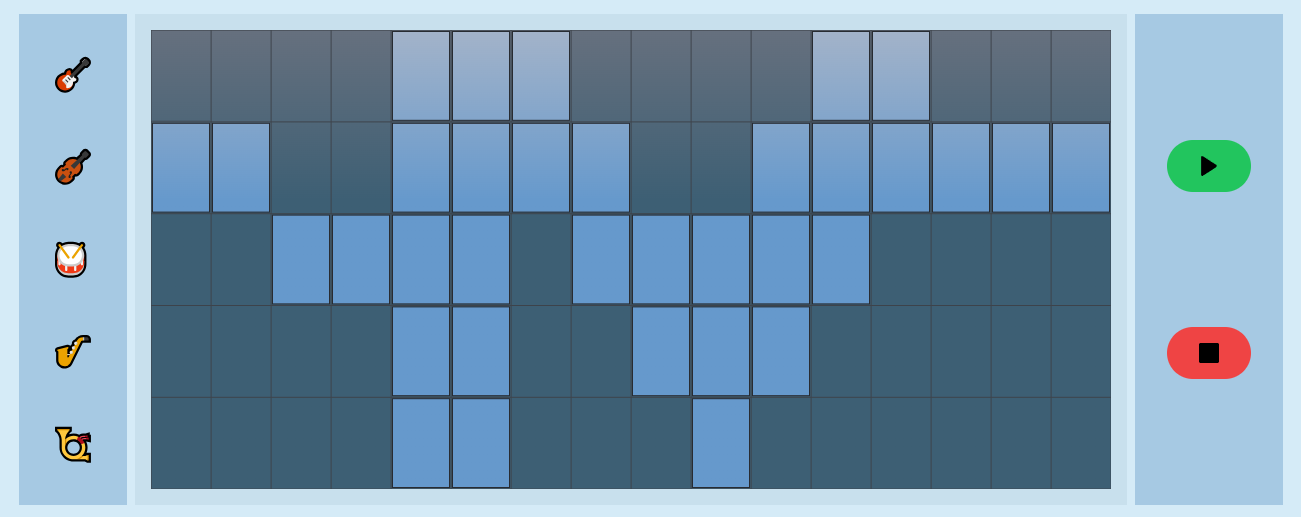
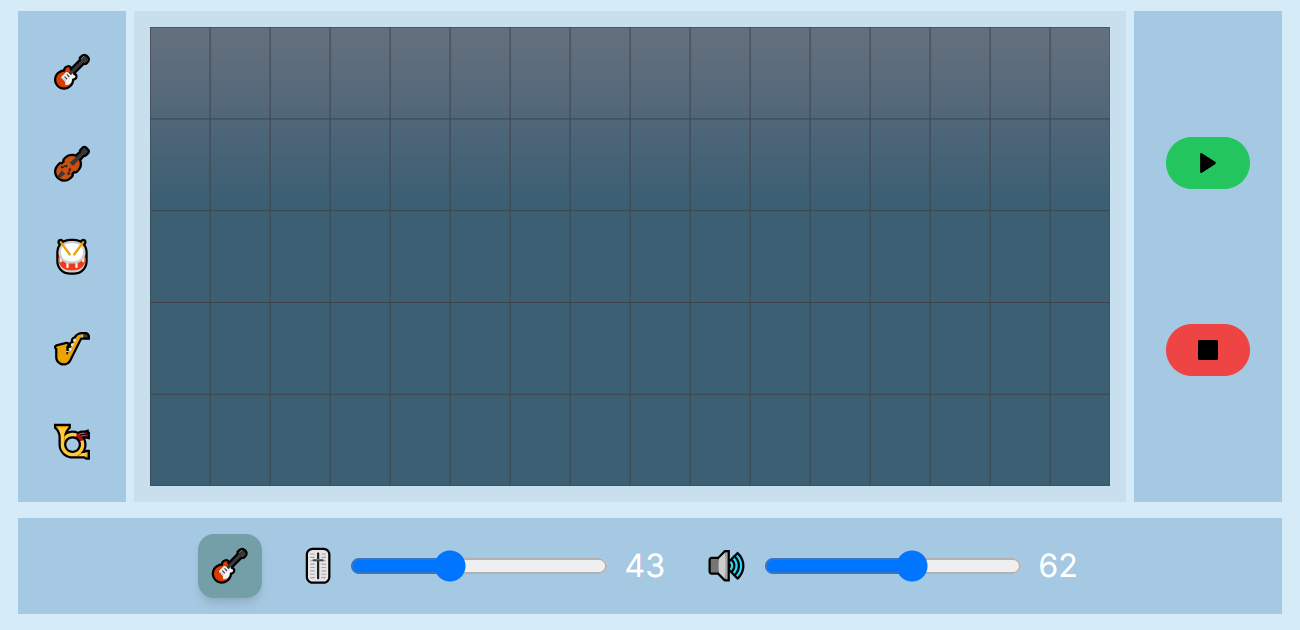
UI Changes

diff --git a/components/Mixer.js b/components/Mixer.js
@@ -2,6 +2,8 @@
 
 import React, { useState } from 'react';
 
+import Image from 'next/image';
+
 const Mixer = ({ onUpdatePitch, onUpdateVolume, active, mix }) => {
   const [pitch, setPitch] = useState(mix[active][0]);
   const [volume, setVolume] = useState(mix[active][1]);
@@ -23,11 +25,12 @@ const Mixer = ({ onUpdatePitch, onUpdateVolume, active, mix }) => {
 
   return (
     <div className="flex-grow p-2 m-1 flex items-center justify-center bg-softSkyBlue">
-      <p className="text-center mr-2 p-1 text-lg">{getInstrumentText(active)}</p>
-
+      <div className="w-8 h-8 text-center mr-5 p-1 bg-StormyDustyTurquoise rounded-lg shadow-md">
+        {getInstrumentText(active)}
+      </div>
       <div className="flex items-center">
         <label htmlFor="pitch" className="mr-2">
-          Pitch:
+          🎚
         </label>
         <input
           type="range"
@@ -38,11 +41,11 @@ const Mixer = ({ onUpdatePitch, onUpdateVolume, active, mix }) => {
           value={mix[active][0]}
           onChange={handlePitchChange}
         />
-        <span className="ml-2">{mix[active][0]}</span>
+        <span className="ml-2 flex-shrink-0 w-8">{mix[active][0]}</span>
       </div>
       <div className="flex items-center ml-2">
         <label htmlFor="volume" className="mr-2">
-          Volume:
+          🔊
         </label>
         <input
           type="range"
@@ -53,7 +56,7 @@ const Mixer = ({ onUpdatePitch, onUpdateVolume, active, mix }) => {
           value={mix[active][1]}
           onChange={handleVolumeChange}
         />
-        <span className="ml-2">{mix[active][1]}</span>
+        <span className="ml-2 flex-shrink-0 w-8">{mix[active][1]}</span>
       </div>
     </div>
   );

diff --git a/components/Instruments.js b/components/Instruments.js
@@ -8,7 +8,11 @@ const Instruments = ({ onUpdateActiveMix }) => {
   return (
     <div className="grid grid-cols-1 place-content-evenly gap-y-5 bg-softSkyBlue p-4 m-1">
       {['🎸', '🎻', '🥁', '🎷', '📯'].map((instrument, index) => (
-        <button key={index} onClick={() => handleClick(index)}>
+        <button
+          className="hover:bg-StormyDustyTurquoise rounded-full focus:outline-none focus:shadow-outline"
+          key={index}
+          onClick={() => handleClick(index)}
+        >
           {instrument}
         </button>
       ))}

diff --git a/README.md b/README.md
@@ -1,7 +1,8 @@
 # GrooveGrid
 
-![Tux, the Linux mascot](/public/GrooveGrid.png)
+![GrooveGrid](/public/GrooveGrid.png)
 
 ## Create music
 
 - Produce music by placing notes on the grid. Instruments are the guitar, violin, drums, saxophone and french-horn.
+- Adjust the pitch and volume of individual instruments
